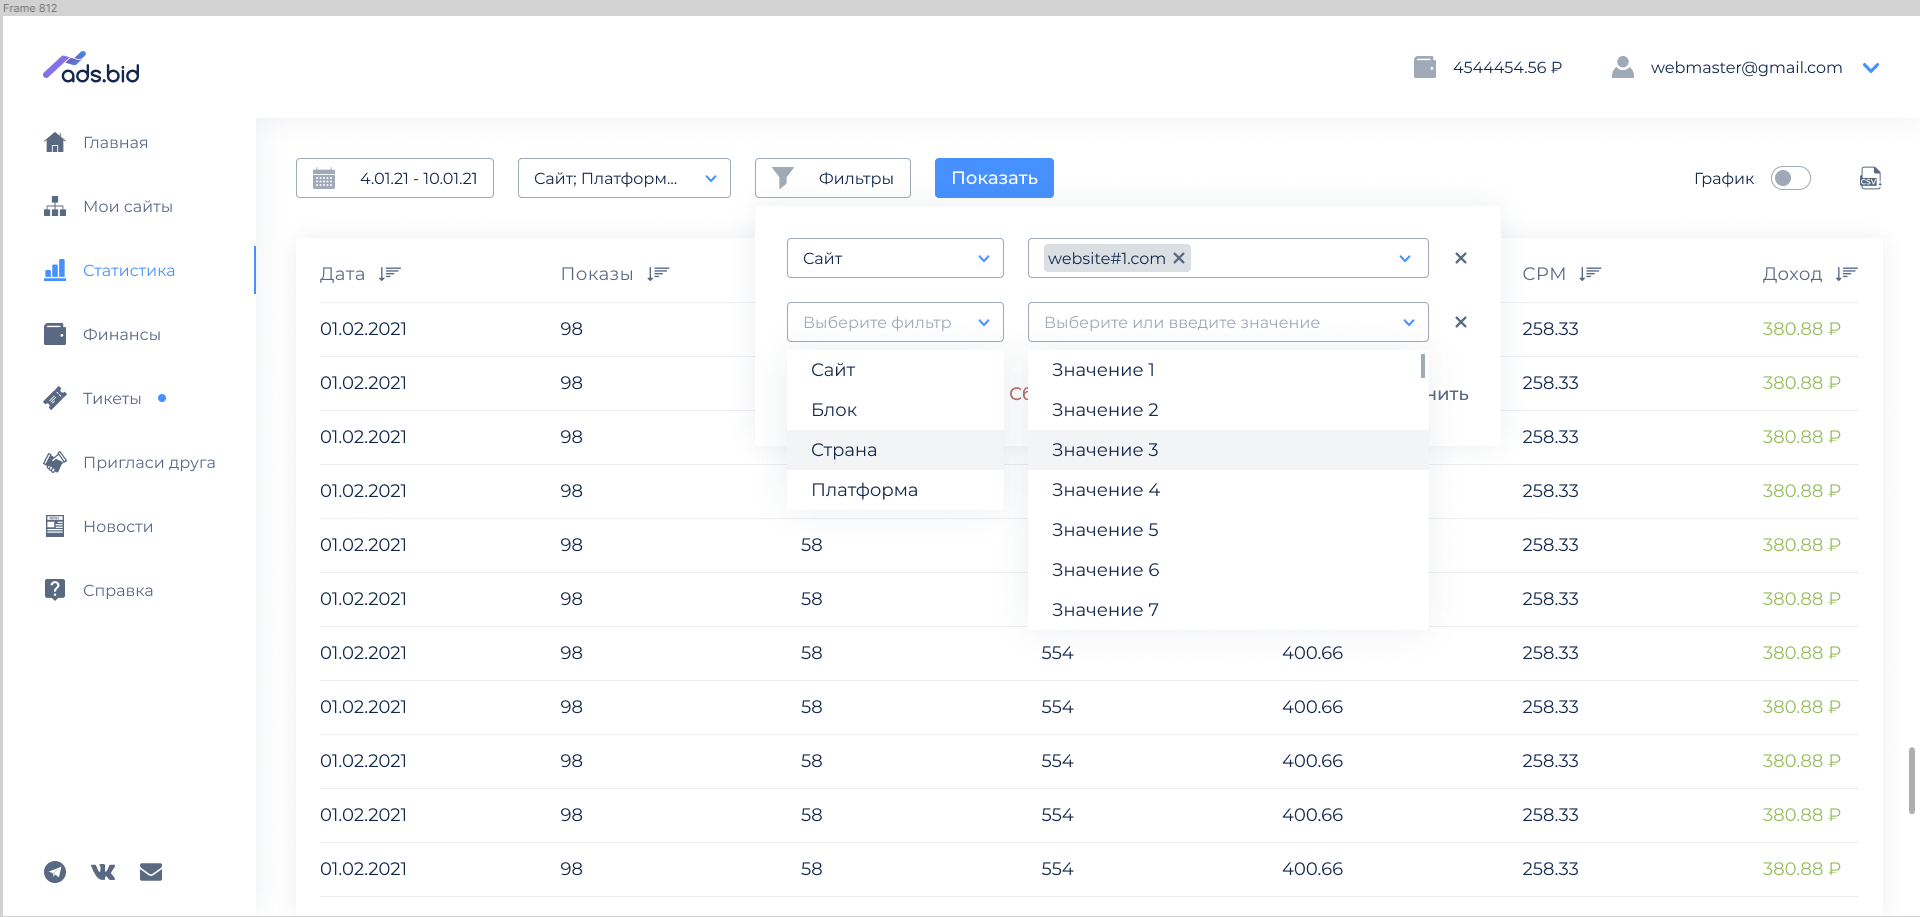
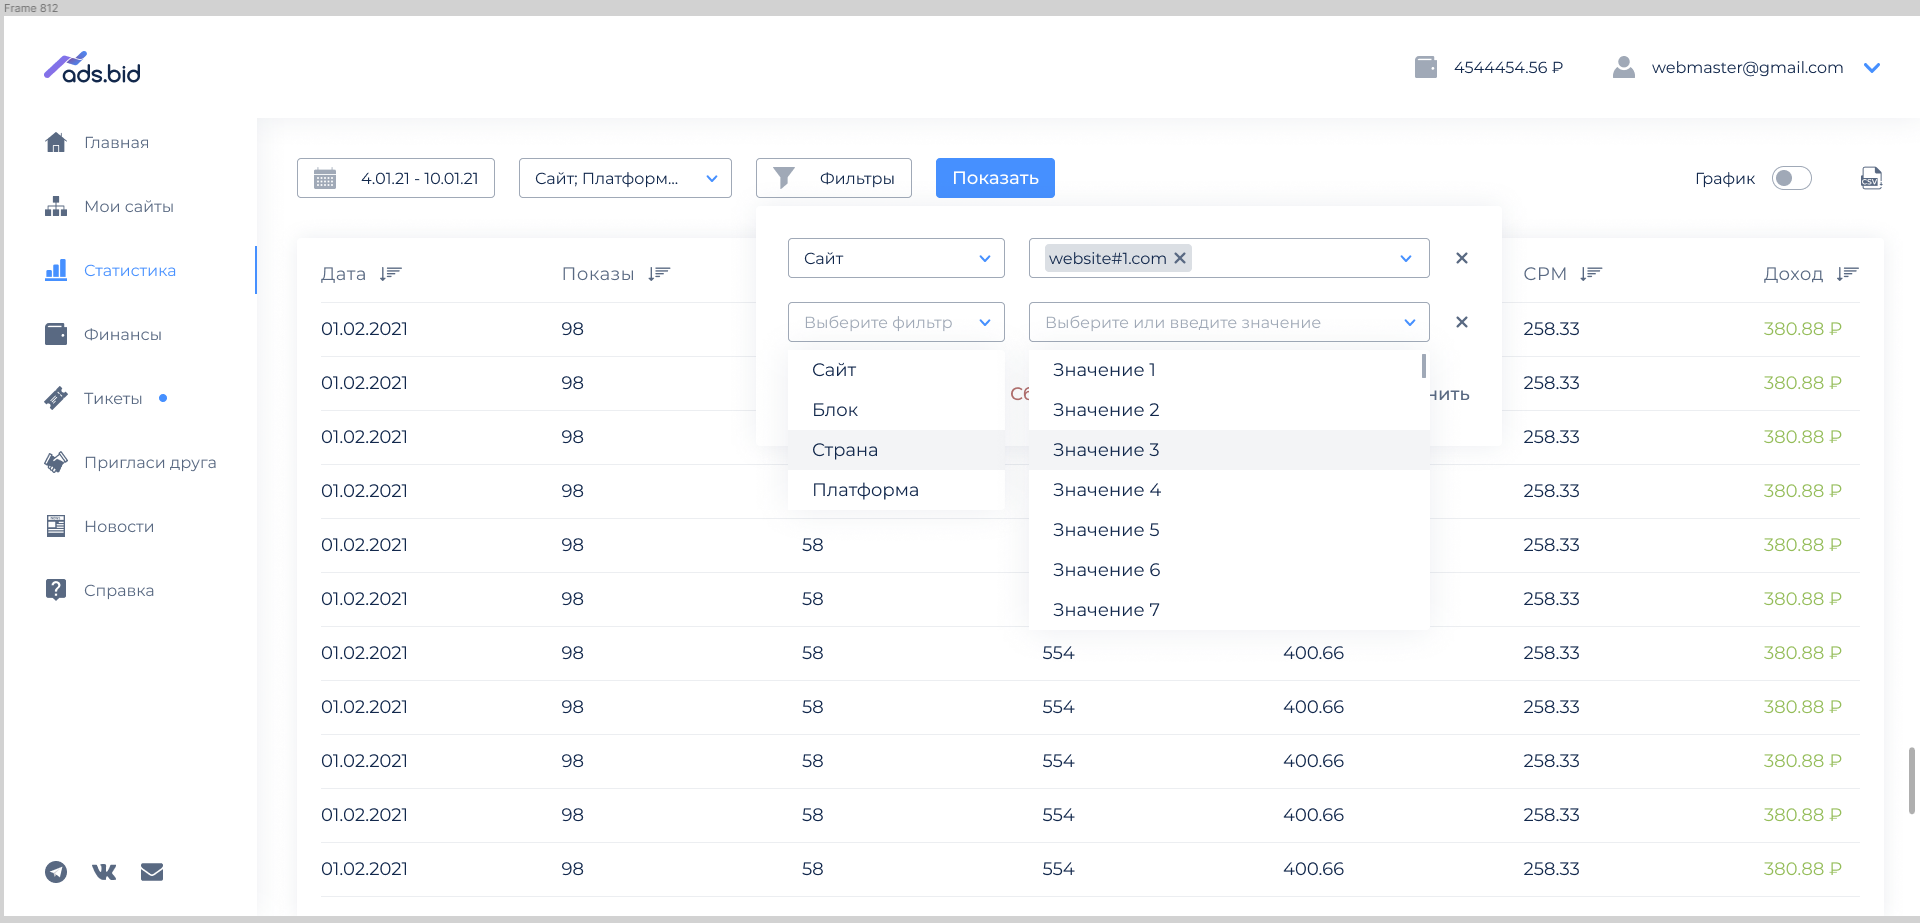
Статистика после проверки без кнопок

diff --git a/src/pages/Statistics.vue b/src/pages/Statistics.vue
@@ -1,5 +1,5 @@
 <template>
-  <q-page class="statistics-page" :class="{ lock: lockPage }">
+  <q-page :class="['statistics-page', {lock: lockPage}]">
     <div class="title-mob">Статистика</div>
 
     <div class="row filters">
@@ -221,6 +221,13 @@
                   />
                 </svg>
               </div>
+              <q-btn
+                  class="btn btn-red btn-del active"
+                  label="Удалить фильтр"
+                  unelevated
+                  no-caps
+                  :ripple="false"
+              />
             </div>
 
             <div class="filter-menu__buttons">
@@ -237,14 +244,7 @@
                 unelevated
                 no-caps
                 :ripple="false"
-              />
-              <q-btn
-                class="btn btn-red btn-del active"
-                label="Удалить фильтр"
-                unelevated
-                no-caps
-                :ripple="false"
-              />
+              />              
               <q-btn
                 class="btn btn-blue active"
                 label="Готово"
@@ -259,7 +259,7 @@
                 unelevated
                 no-caps
               />
-            </div>
+            </div>      
           </div>
         </q-btn-dropdown>
       </div>
@@ -363,7 +363,7 @@
       </q-tab-panels>
     </q-card>
 
-    <q-markup-table flat :class="{ lock: lockPage }">
+    <q-markup-table flat :class="{lock: lockPage}">
       <thead>
         <tr>
           <th class="text-left">
@@ -1710,9 +1710,17 @@ export default {
           color: #12284c;
         }
 
+        @media (max-width: 1360px) {
+          bottom: 65px;
+        }
+
         @media (max-width: 1130px) {
           display: none;
         }
+      }
+
+      .datepicker-btn-two {
+        display: none;
       }
 
       @media (max-width: 1130px) {
@@ -1797,6 +1805,7 @@ export default {
 
     &__buttons {
       flex-wrap: wrap;
+      margin: 32px 0px 0px 0px;
     }
 
     &__close {
@@ -2099,6 +2108,7 @@ export default {
       }
 
       &--active {
+        color: #12284c;
         &::before {
           background: url("../assets/checkbox-active.svg") 0 0 no-repeat;
         }
@@ -2283,6 +2293,14 @@ export default {
               top: 1px;
               right: -8px;
 
+              &:hover {
+                svg {
+                  path {
+                    fill: #596982;
+                  }
+                }
+              }
+
               svg {
                 width: 16px;
                 height: 16px;
@@ -2351,6 +2369,7 @@ export default {
           .chart {
             height: 262px;
             width: 360px;
+            margin: 1px 0px 0px 0px;
 
             .graphic-desktop {
               display: none;
@@ -2797,7 +2816,7 @@ export default {
         }
 
         & + .filter-menu__row {
-          margin: 16px 0px 0px 0px;
+          padding: 8px 0px 0px 0px;
         }
       }
 
@@ -2805,6 +2824,7 @@ export default {
         flex-wrap: wrap;
         display: flex;
         flex-direction: column-reverse;
+        margin: 0;
       }
 
       &__close {
@@ -3009,6 +3029,7 @@ export default {
 
         &.btn-del {
           display: block;
+          margin: 24px 0px 32px 0px;
         }
       }
 
